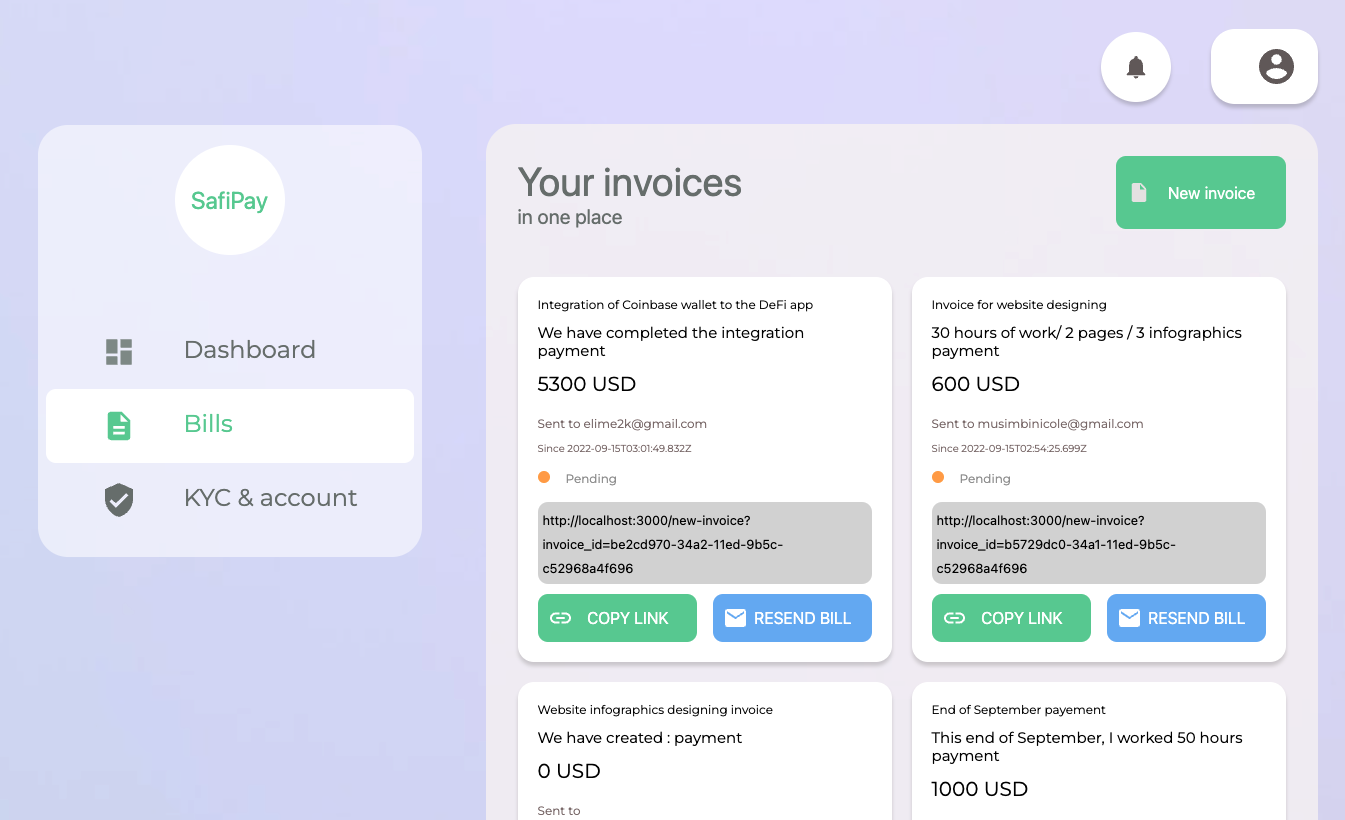
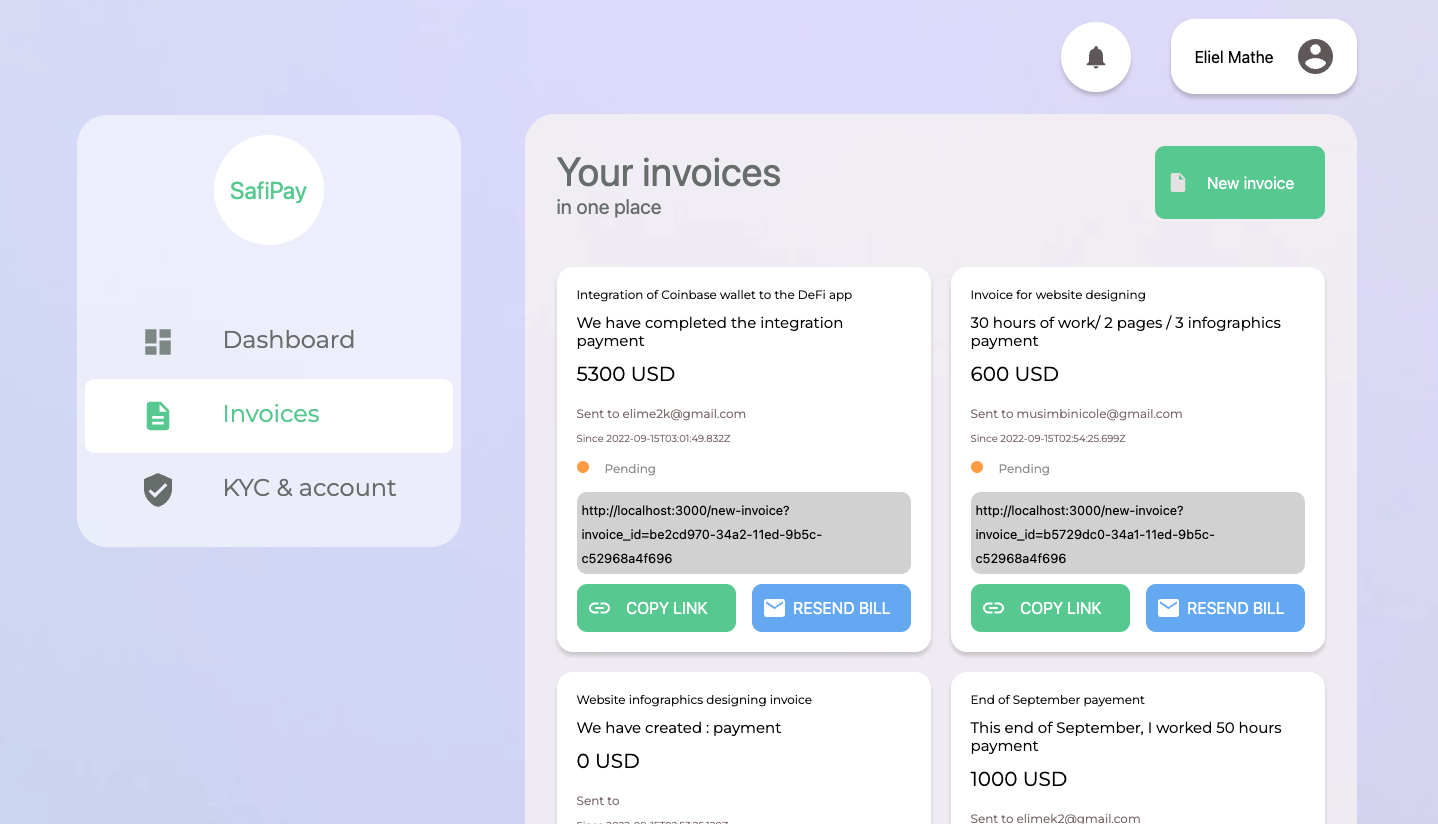
Updating invoices

diff --git a/components/BillsDashboard.tsx b/components/BillsDashboard.tsx
@@ -80,7 +80,7 @@ export default class BillsDashboard extends Component<BillsProps>{
           <div className="absolute container-modal inset-0 z-10 py-10">
             <div className="modal-invoice rounded-3xl">
               <div className="modal-wrapper w-full">
-                <h3 className="mb-5">New bill</h3>
+                <h3 className="mb-5">New invoice</h3>
                 <form onSubmit={this.handleFormSubmit}>
                   <div className="form-new-invoice px-6 py-10 gap-28 rounded-3xl flex flex-row justify-between">
                     <div className="form-main flex-1">

diff --git a/components/SideBar.tsx b/components/SideBar.tsx
@@ -15,7 +15,7 @@ const SideBar: FC<SidebarProps> = (props) => {
       id: "dashboard",
     },
     {
-      label: "Bills",
+      label: "Invoices",
       activeIcon: "/assets/shared/bills-active.svg",
       inactiveIcon: "/assets/shared/bills-inactive.svg",
       id: "bills",

diff --git a/README.md b/README.md
@@ -21,7 +21,8 @@ Here is the flow of use of the application:
 ![KYC](md-assets/kyc.png)
 ![IPFS](md-assets/ID_File_IPFS.png)
 2. The worker generates an invoice and fills in the employer's email 
-![Bills](md-assets/bills.png)
+![Bills](md-assets/invoices.png)
+![Bills](md-assets/new-invoice.png)
 3. Employee clicks on the link received by email 
 ![Email](md-assets/email.png)
 4. Employer connects with CoinBase Wallet to pay 
